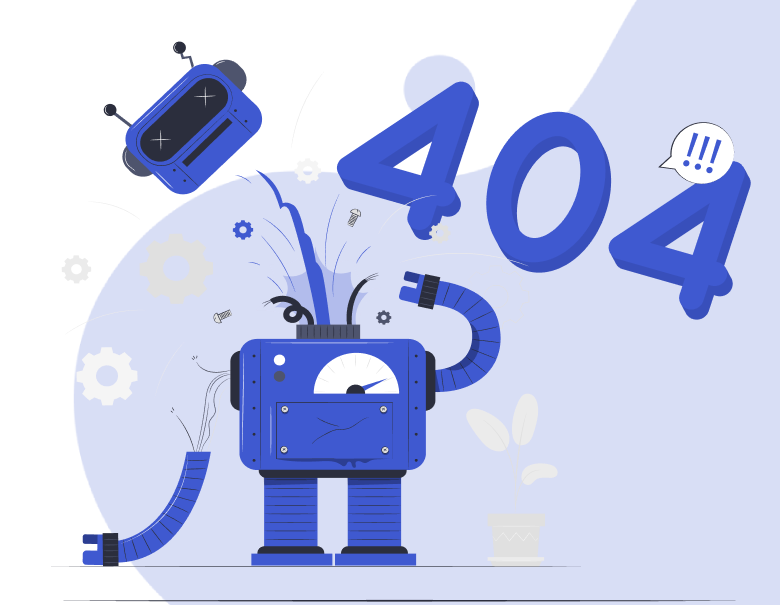
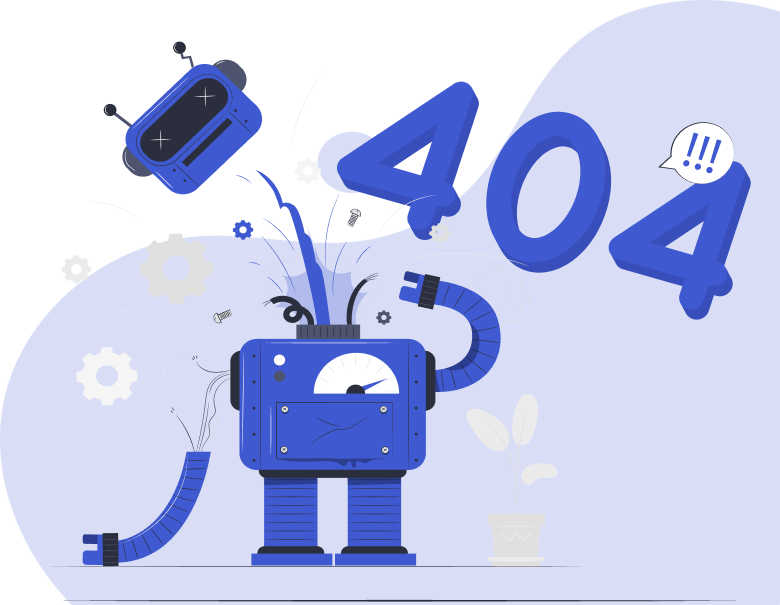
missing navigation

diff --git a/src/app/shared/not-found/not-found.component.html b/src/app/shared/not-found/not-found.component.html
@@ -1,13 +1,8 @@
-<!-- <section class="not-page vh-100 overflow-hidden   d-flex  justify-content-between align-items-end">
-
-  <img src="../../../assets/images/not-found-404.png" class="w-50" alt="">
-</section> -->
-
 <section class="not-page not-found vh-100 w-100">
   <div class="container h-100 w-100">
     <div class="row d-flex justify-content-between h-100">
       <div class="col-md-4">
-       <div class="content">
+        <div class="content">
           <h2 class="font-weight-bold">Oops....</h2>
           <h2 class="page">Page Not Found</h2>
           <p>
@@ -16,17 +11,15 @@
         </div>
 
         <div>
-          <button class="ms-5 px-3 border-0 px-4 py-3 not-btn rounded-5 mb-5">
-            <a routerLink="/manager/home" class="primary">
+          <button class="primary w-100 mt-4 p-2">
                 <i class="fa-solid fa-arrow-left-long me-1 "></i>
                 Back to Home
-            </a>
         </button>
         </div>
       </div>
 
-      <div class="col-md-8">
-        <img class="d-flex picture-not-found" src="../../../assets/images/not-found-404.png" alt="">
+      <div class="col-md-8 ">
+        <img class="d-flex picture-not-found layer" src="../../../assets/images/not-found-404.png" alt="">
       </div>
     </div>
   </div>

diff --git a/src/app/shared/not-found/not-found.component.scss b/src/app/shared/not-found/not-found.component.scss
@@ -1,41 +1,3 @@
 @import '../../../assets/styles/abstracts/bg-color.scss';
-
-.not-page{
-  .not-btn{
-      background-color: #E2E5EB;
-      transition: 0.4s;
-  &:hover{
-      background-color: #b3c2e1 ;
-  }
-  i{
-      transition: 0.4s;
-  }
-  &:hover i{
-      transform: translateX(-5px);
-  }
-}
-}
-.not-found {
-  // background-image: url(../../../assets/images/not-found-404.png);
-  // background-size: cover;
-  // background-repeat: no-repeat;
-
-  .picture-not-found {
-    position: fixed;
-    right: 0;
-    bottom: 0;
-  }
-
-  .page {
-    font-size: 32px;
-    font-weight: 400;
-    color: $primary-color;
-  }
-
-  .content {
-    display: flex;
-    flex-direction: column;
-    height: 12rem;
-    justify-content: space-between;
-  }
-}
+@import '../../../assets/styles/layout/not-found.scss';
+@import '../../../assets/styles/components/button.scss';

diff --git a/src/assets/styles/layout/not-found.scss b/src/assets/styles/layout/not-found.scss
@@ -1,0 +1,54 @@
+// .not-page{
+//   .not-btn{
+//       // background-color: #E2E5EB;
+//       transition: 0.4s;
+//   &:hover{
+//       // background-color: #b3c2e1 ;
+//   }
+//   i{
+//       transition: 0.4s;
+//   }
+//   &:hover i{
+//       transform: translateX(-5px);
+//   }
+// }
+// }
+.not-found {
+
+  .picture-not-found {
+    position: fixed;
+    right: 0;
+    bottom: 0;
+  }
+
+  .page {
+    font-size: 32px;
+    font-weight: 400;
+    color: $primary-color;
+  }
+
+  .content {
+    display: flex;
+    flex-direction: column;
+    height: 12rem;
+    justify-content: space-between;
+  }
+}
+
+
+
+@media screen and (max-width:1023px) {
+
+  .layer{
+      width: 110%;
+      height: 70%;
+  }
+}
+
+@media screen and (max-width:576px) {
+
+  .layer{
+      width: 150%;
+      height: 70%;
+  }
+}

diff --git a/src/app/shared/not-found/not-found.component.ts b/src/app/shared/not-found/not-found.component.ts
@@ -14,9 +14,8 @@ export class NotFoundComponent {
   constructor(private _Router:Router) {}
 
   goHome() {
-
-    this._Router.navigate(['manager/home']);
-    console.log('Dashboard - Home');
+    this._Router.navigate(['/manager/home']);
+    console.log('Home');
   }
 
 }
